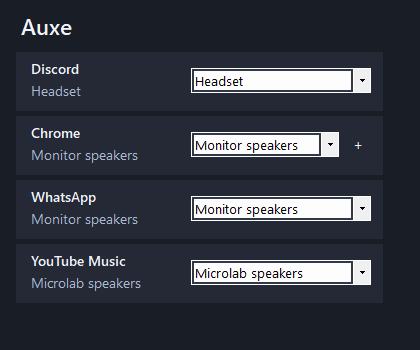
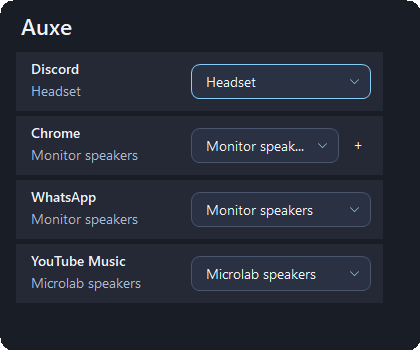
Polish output selection and link the Windows installer

diff --git a/Tray.cs b/Tray.cs
@@ -182,7 +182,7 @@ sealed class Tray : ApplicationContext
             status.SetBounds(19, 60 + contentHeight, 380, 30);
             panel.Location = new Point(Math.Max(area.Left, Math.Min(anchor.X - 205, area.Right - panel.Width)),
                 Math.Max(area.Top, Math.Min(anchor.Y, area.Bottom) - panel.Height - 9));
-            using (var clip = Rounded(new Rectangle(0, 0, panel.Width, panel.Height), 16))
+            using (var clip = Rounded(new Rectangle(0, 0, panel.Width, panel.Height), 26))
             {
                 var old = panel.Region;
                 panel.Region = new Region(clip);
@@ -207,25 +207,24 @@ sealed class Tray : ApplicationContext
     void AddRow(string name, string subtitle, List<Output> outputs, string selected, Action<Output> change, bool expander)
     {
         var row = new Panel { Width = 367, Height = 59, Margin = new Padding(0, 0, 0, 5), BackColor = Color.FromArgb(36, 41, 53) };
-        using (var clip = Rounded(row.ClientRectangle, 10)) row.Region = new Region(clip);
+        using (var clip = Rounded(row.ClientRectangle, 20)) row.Region = new Region(clip);
         var title = new Label { Text = name, UseMnemonic = false, AutoEllipsis = true, Font = rowFont, Bounds = new Rectangle(11, 7, outputs == null ? 306 : 158, 22) };
         var detail = new Label { Text = subtitle, UseMnemonic = false, AutoEllipsis = true, ForeColor = Color.FromArgb(170, 185, 210), Bounds = new Rectangle(11, 29, outputs == null ? 306 : 158, 23) };
         row.Controls.AddRange(new Control[] { title, detail });
         if (outputs != null)
         {
-            var combo = new ComboBox { AccessibleName = name + " output", DropDownStyle = ComboBoxStyle.DropDownList,
-                FlatStyle = FlatStyle.Flat, ForeColor = panel.ForeColor, BackColor = Color.FromArgb(49, 57, 73),
-                Bounds = new Rectangle(175, 16, expander ? 148 : 180, 27), DropDownWidth = 290 };
-            combo.Items.AddRange(outputs.Cast<object>().ToArray());
-            combo.SelectedIndex = outputs.FindIndex(output => output.Id == selected);
-            if (combo.SelectedIndex < 0) combo.SelectedIndex = 0;
-            combo.SelectionChangeCommitted += (s, e) =>
+            var picker = new OutputPicker(outputs, selected, output =>
             {
-                try { change((Output)combo.SelectedItem); }
+                try { change(output); return true; }
                 catch (COMException) { status.Text = "Windows could not change the output."; signature = null; }
                 catch (InvalidOperationException error) { status.Text = error.Message; signature = null; }
+                return false;
+            })
+            {
+                AccessibleName = name + " output",
+                Bounds = new Rectangle(175, 12, expander ? 148 : 180, 35)
             };
-            row.Controls.Add(combo);
+            row.Controls.Add(picker);
         }
         if (expander)
         {
@@ -238,7 +237,7 @@ sealed class Tray : ApplicationContext
         rows.Controls.Add(row);
     }
 
-    static GraphicsPath Rounded(Rectangle bounds, int radius)
+    internal static GraphicsPath Rounded(Rectangle bounds, int radius)
     {
         var path = new GraphicsPath();
         path.AddArc(bounds.Left, bounds.Top, radius, radius, 180, 90);
@@ -296,4 +295,142 @@ sealed class Tray : ApplicationContext
     }
 
     [DllImport("user32.dll")] static extern bool DestroyIcon(IntPtr icon);
+}
+
+sealed class OutputPicker : Button
+{
+    static readonly Color Surface = Color.FromArgb(41, 49, 66);
+    static readonly Color Highlight = Color.FromArgb(52, 65, 88);
+    static readonly Color Ink = Color.FromArgb(239, 242, 249);
+    static readonly Color Accent = Color.FromArgb(133, 206, 249);
+    readonly ContextMenuStrip menu;
+    bool hover;
+    bool opening;
+    ToolStripMenuItem current;
+
+    public bool MenuOpen { get { return opening || menu.Visible; } }
+
+    public OutputPicker(List<Output> outputs, string selected, Func<Output, bool> commit)
+    {
+        FlatStyle = FlatStyle.Flat;
+        FlatAppearance.BorderSize = 0;
+        SetStyle(ControlStyles.UserPaint | ControlStyles.AllPaintingInWmPaint | ControlStyles.OptimizedDoubleBuffer, true);
+        UseMnemonic = false;
+        Cursor = Cursors.Hand;
+        AccessibleRole = AccessibleRole.ButtonMenu;
+        menu = new ContextMenuStrip
+        {
+            Renderer = new PickerRenderer(),
+            ShowImageMargin = false,
+            ShowCheckMargin = false,
+            Padding = new Padding(5),
+            Font = Font,
+            BackColor = Surface,
+            ForeColor = Ink
+        };
+
+        foreach (var output in outputs)
+        {
+            var item = new ToolStripMenuItem(output.Name.Replace("&", "&&"))
+            {
+                ForeColor = Ink,
+                Padding = new Padding(9, 5, 26, 5)
+            };
+            item.Click += (sender, args) =>
+            {
+                if (!commit(output)) return;
+                current.Checked = false;
+                current = item;
+                current.Checked = true;
+                Text = output.Name;
+                Invalidate();
+            };
+            menu.Items.Add(item);
+            if (output.Id == selected) current = item;
+        }
+        current = current ?? (ToolStripMenuItem)menu.Items[0];
+        current.Checked = true;
+        Text = outputs[menu.Items.IndexOf(current)].Name;
+        menu.SizeChanged += (sender, args) =>
+        {
+            if (menu.Width < 14 || menu.Height < 14) return;
+            using (var path = Tray.Rounded(menu.ClientRectangle, 14))
+            {
+                var previous = menu.Region;
+                menu.Region = new Region(path);
+                if (previous != null) previous.Dispose();
+            }
+        };
+        menu.Closed += (sender, args) => Invalidate();
+    }
+
+    protected override void OnClick(EventArgs args)
+    {
+        base.OnClick(args);
+        if (menu.Visible) { menu.Close(); return; }
+        opening = true;
+        try
+        {
+            menu.Show(this, new Point(Width, Height + 4), ToolStripDropDownDirection.BelowLeft);
+            current.Select();
+        }
+        finally { opening = false; Invalidate(); }
+    }
+
+    protected override void OnMouseEnter(EventArgs args) { base.OnMouseEnter(args); hover = true; Invalidate(); }
+    protected override void OnMouseLeave(EventArgs args) { base.OnMouseLeave(args); hover = false; Invalidate(); }
+    protected override void OnGotFocus(EventArgs args) { base.OnGotFocus(args); Invalidate(); }
+    protected override void OnLostFocus(EventArgs args) { base.OnLostFocus(args); Invalidate(); }
+
+    protected override void OnPaint(PaintEventArgs args)
+    {
+        var graphics = args.Graphics;
+        graphics.Clear(Parent.BackColor);
+        graphics.SmoothingMode = SmoothingMode.AntiAlias;
+        var bounds = new Rectangle(0, 0, Width - 1, Height - 1);
+        using (var path = Tray.Rounded(bounds, 16))
+        using (var fill = new SolidBrush(hover || MenuOpen ? Highlight : Surface))
+        using (var border = new Pen(Focused || MenuOpen ? Accent : Color.FromArgb(73, 85, 107)))
+        using (var chevron = new Pen(Accent, 1.5f))
+        {
+            graphics.FillPath(fill, path);
+            graphics.DrawPath(border, path);
+            TextRenderer.DrawText(graphics, Text, Font, new Rectangle(11, 0, Width - 35, Height), Ink,
+                TextFormatFlags.VerticalCenter | TextFormatFlags.EndEllipsis | TextFormatFlags.NoPrefix | TextFormatFlags.SingleLine);
+            var x = Width - 17;
+            var y = Height / 2;
+            graphics.DrawLines(chevron, new[] { new Point(x - 4, y - 2), new Point(x, y + 2), new Point(x + 4, y - 2) });
+        }
+    }
+
+    protected override void Dispose(bool disposing)
+    {
+        if (disposing && menu != null) menu.Dispose();
+        base.Dispose(disposing);
+    }
+
+    sealed class PickerRenderer : ToolStripRenderer
+    {
+        protected override void OnRenderToolStripBackground(ToolStripRenderEventArgs args)
+        {
+            args.Graphics.Clear(Surface);
+        }
+
+        protected override void OnRenderMenuItemBackground(ToolStripItemRenderEventArgs args)
+        {
+            var item = (ToolStripMenuItem)args.Item;
+            if (!item.Selected && !item.Checked) return;
+            args.Graphics.SmoothingMode = SmoothingMode.AntiAlias;
+            using (var path = Tray.Rounded(new Rectangle(0, 0, item.Width, item.Height), 12))
+            using (var fill = new SolidBrush(item.Selected ? Highlight : Surface))
+                args.Graphics.FillPath(fill, path);
+            if (item.Checked)
+            {
+                var x = item.Width - 15;
+                var y = item.Height / 2;
+                using (var pen = new Pen(Accent, 1.7f))
+                    args.Graphics.DrawLines(pen, new[] { new Point(x - 5, y), new Point(x - 2, y + 3), new Point(x + 4, y - 4) });
+            }
+        }
+    }
 }

diff --git a/Setup.cs b/Setup.cs
@@ -54,7 +54,7 @@ static class Setup
             using (var key = Registry.CurrentUser.CreateSubKey(UninstallKey))
             {
                 key.SetValue("DisplayName", "Auxe");
-                key.SetValue("DisplayVersion", "0.1.0");
+                key.SetValue("DisplayVersion", "0.1.1");
                 key.SetValue("DisplayIcon", exe);
                 key.SetValue("InstallLocation", root);
                 key.SetValue("UninstallString", "\"powershell.exe\" -NoProfile -ExecutionPolicy Bypass -File \"" + Path.Combine(root, "uninstall.ps1") + "\"");

diff --git a/README.md b/README.md
@@ -2,6 +2,8 @@
 
 Pick where each Windows app plays. Click the dancing speaker near the clock to send Discord to a headset, Chrome to a monitor, or YouTube Music to separate speakers.
 
+**[Download AuxeSetup.exe for Windows](https://github.com/rasithsenanayake/auxe/releases/latest/download/AuxeSetup.exe)**
+
 ## Screenshots
 
 | App outputs | Expanded Chrome tabs |
@@ -12,7 +14,9 @@ Screenshots use sample apps and devices.
 
 ## Install
 
-On Windows 11 x64, run `.\build.ps1` from PowerShell, then open `bin\AuxeSetup.exe`. The unsigned installer adds Auxe to the Start menu and launches it in the notification area. The build uses the .NET Framework already included with Windows.
+Download and run **AuxeSetup.exe** on Windows 11 x64. The unsigned installer adds Auxe to the Start menu and launches it in the notification area.
+
+To build from source, run `.\build.ps1` in PowerShell. It creates `bin\AuxeSetup.exe`.
 
 Start audio in an app, open Auxe, and pick its output. Choose **System default** to clear a route. If an app stays on the old output, restart playback or rejoin the call.
 
